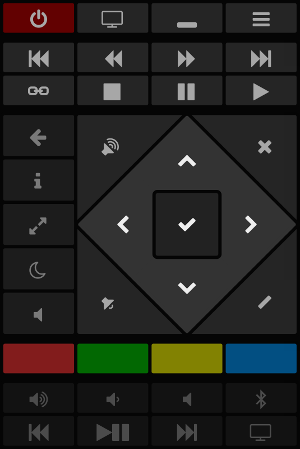
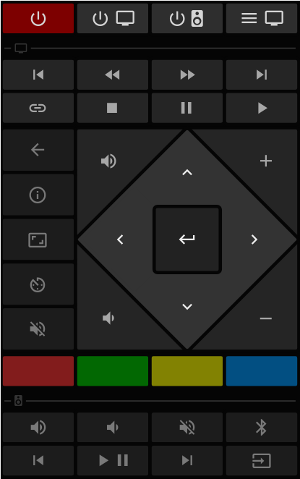
Update screenshot and add a screenshot of it in Vimium

diff --git a/readme.md b/readme.md
@@ -1,4 +1,7 @@
 # webremote
 A quickly dropped together LIRC client for controlling the TV at home.
 
+Screenshots:
+
 ![](screenshot.png)
+![](screenshot-vimium.png)
